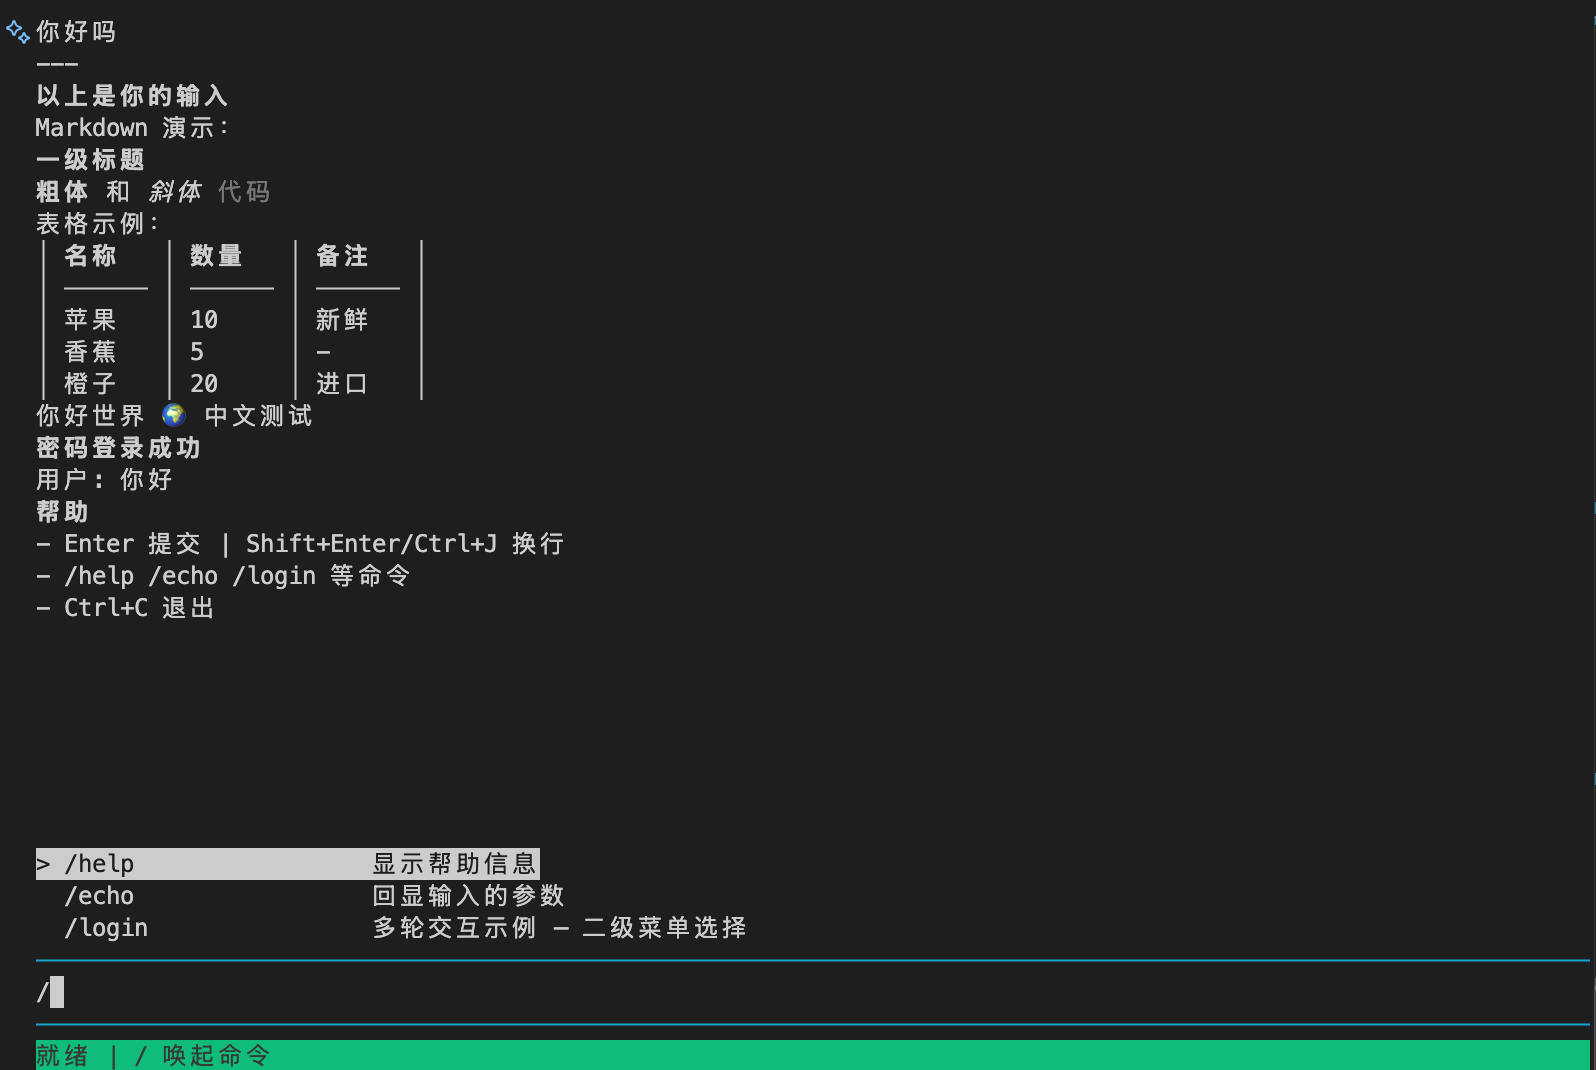
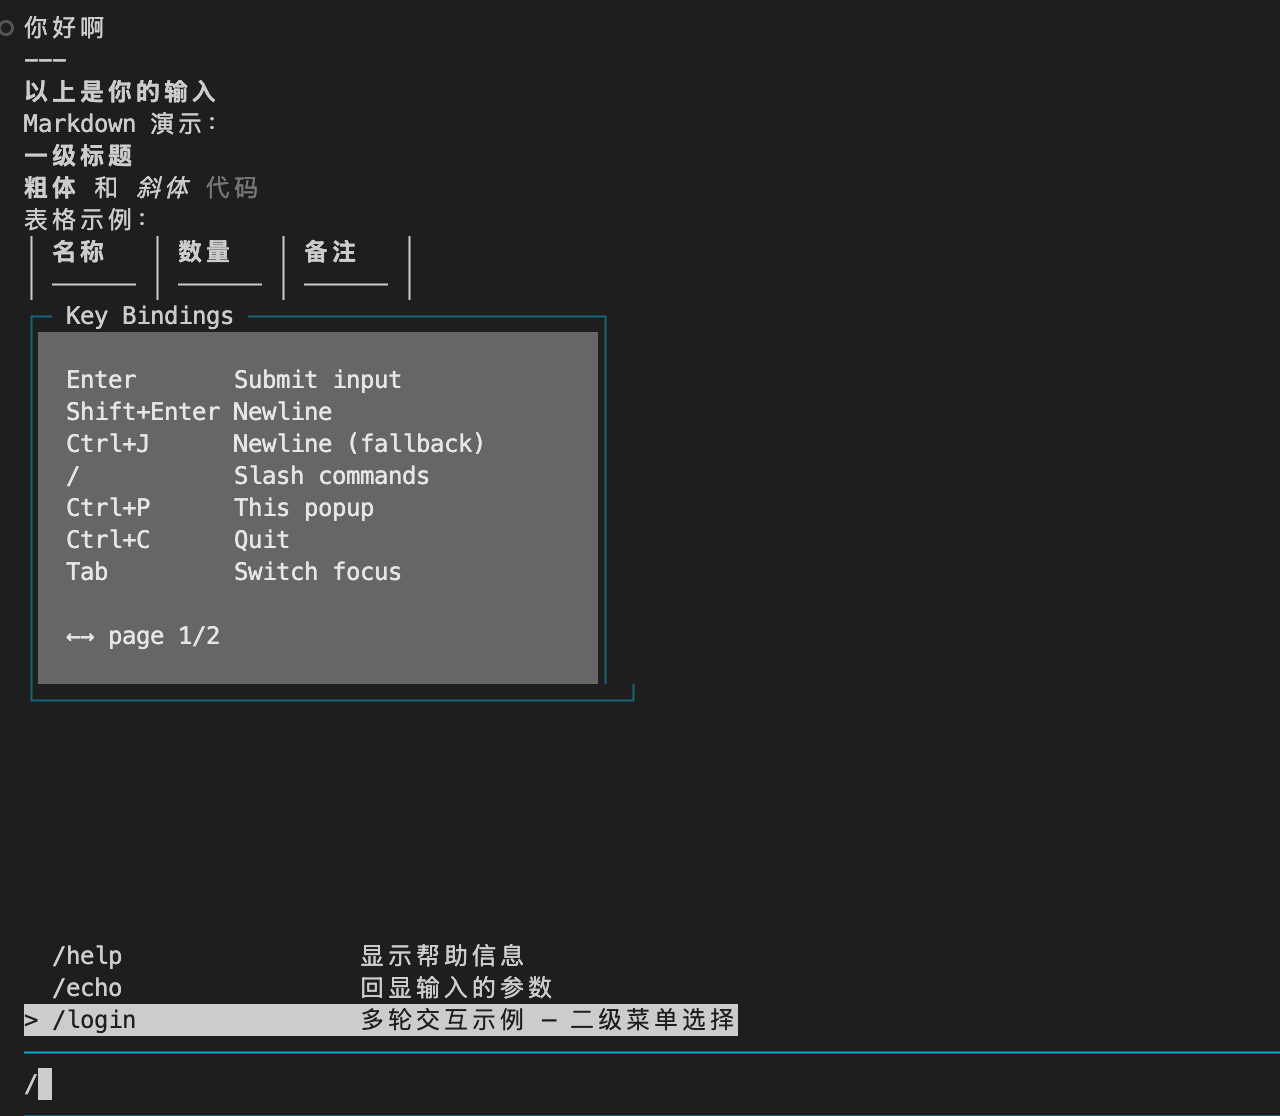
fix: popup bottom border width off by 2
Bottom border was w dashes + 2 corners = w+2 cells.
Should be w-2 dashes + 2 corners = w cells, matching top border.

Changed region(s): [[0.0, 0.0, 0.4688, 0.6168], [0.0, 0.771, 1.0, 1.0], [0.4688, 0.6168, 0.5, 0.6477]]

diff --git a/popup.go b/popup.go
@@ -176,7 +176,7 @@ func (t *TUI) renderPopup(p *popupState) {
 	}
 
 	// Bottom border.
-	botBar := bc + "└" + strings.Repeat("─", w) + "┘" + rst
+	botBar := bc + "└" + strings.Repeat("─", w-2) + "┘" + rst
 	t.writeRow(p.y+h-1, botBar)
 }
 